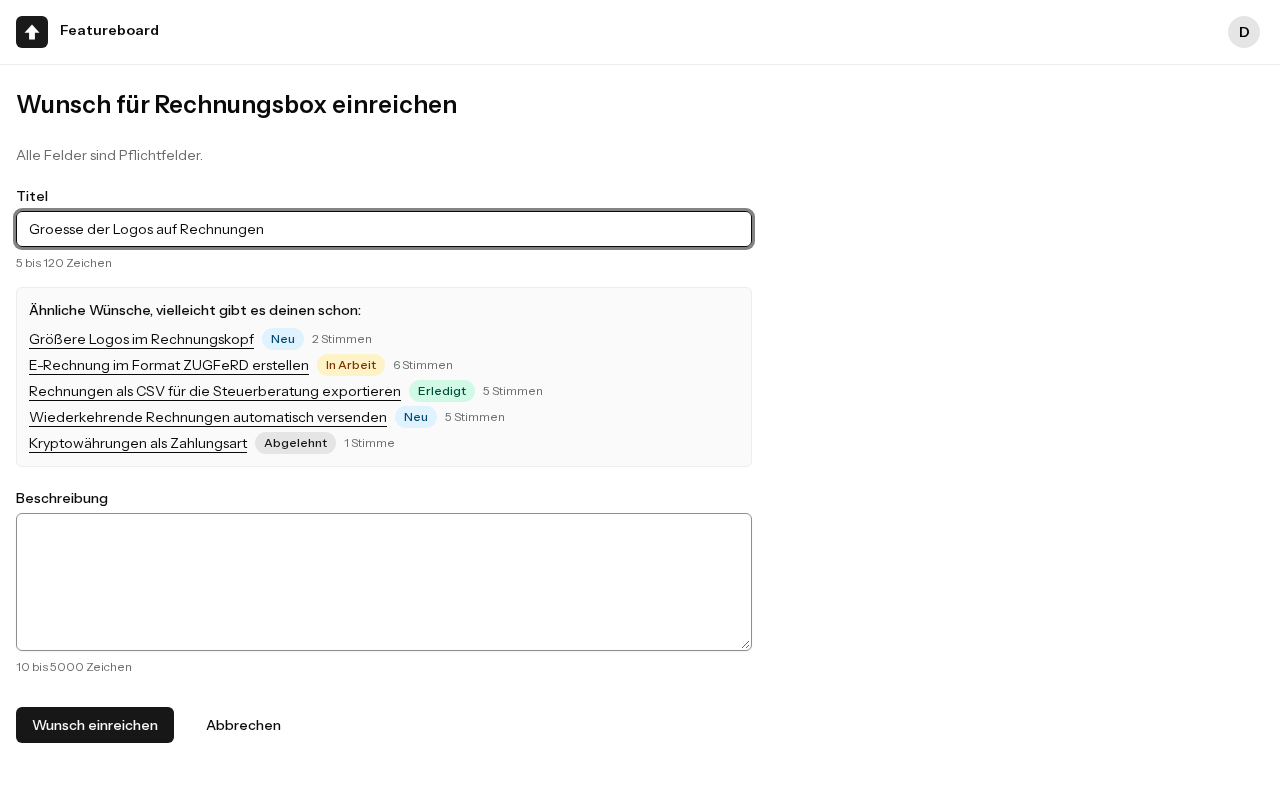
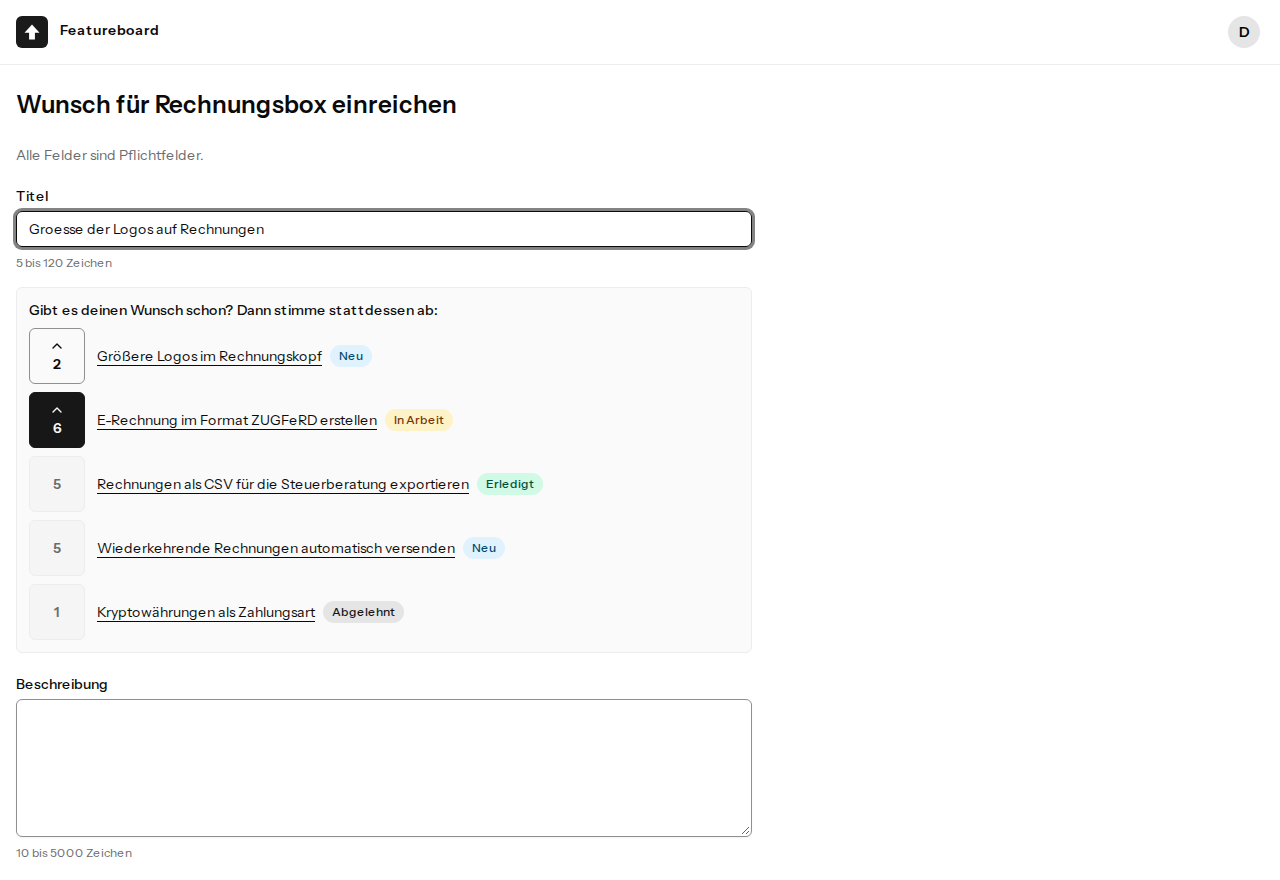
docs: show voting from the hint in the README

diff --git a/README.md b/README.md
@@ -47,7 +47,7 @@ The first command downloads a browser into `node_modules` and is needed once. `c
 Software teams collect feature wishes in emails, tickets and chats, so duplicates pile up and nobody sees what users really want. Featureboard gives each product one public place:
 
 - Users submit wishes and vote for those of others, one vote per account.
-- While someone types a title, the form shows similar existing wishes, so fewer duplicates appear.
+- While someone types a title, the form shows similar existing wishes with a vote button, so a duplicate can become a vote right there.
 - Admins move wishes through a fixed workflow: `new`, `planned`, `in_progress`, `done`, with `declined` possible from the first two.
 - A public roadmap shows what is planned, in progress and done, without an account.
 
@@ -111,8 +111,8 @@ All numbers were measured on the final code. See [docs/QUALITY.md](docs/QUALITY.
 
 | Check         | Result                                                                                                                                                       |
 | ------------- | ------------------------------------------------------------------------------------------------------------------------------------------------------------ |
-| Tests         | 353 tests with 1,327 assertions, against PostgreSQL                                                                                                          |
-| Browser tests | 101 tests with 322 assertions                                                                                                                                |
+| Tests         | 355 tests with 1,349 assertions, against PostgreSQL                                                                                                          |
+| Browser tests | 107 tests with 345 assertions                                                                                                                                |
 | Coverage      | 98.3% of lines in `app/`, without browser tests                                                                                                              |
 | Larastan      | Level 9, 0 errors, no baseline and no ignored errors                                                                                                         |
 | Pint          | Laravel preset plus strict types and strict comparison                                                                                                       |
